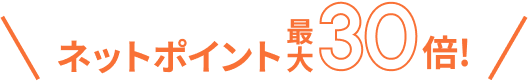
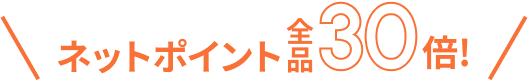
6月分LP・5/29時点校了データ

Changed region(s): [[0.5455, 0.2195, 0.6061, 0.9024]]

diff --git a/index.html b/index.html
@@ -168,7 +168,7 @@ if(/Android/.test(window.navigator.userAgent)){
                         <section id="campaign" class="l-campaign">
                             <h2><img src="./img/seasonal/campaign_ttl.png" alt="キャンペーン詳細"></h2>
                             <ul class="campaign__attention text-xs-reg">
-                                <li>※エルメス商品は対象外</li>
+                                <li>※一部除外品あり</li>
                                 <li>※対象期間：<span class="text-bold">6月8日（月）0:00〜6月11日（木）23:59</span></li>
                                 <li>※キャンペーンにおけるネットポイント付与は<span class="text-color text-xs-bold">7月末</span>予定</li>
                             </ul>
@@ -308,9 +308,9 @@ if(/Android/.test(window.navigator.userAgent)){
                                     </ul>
                                     <p class="point-brand__attention text-xs-reg">※一部商品のみ対象</p>
                                     <ul class="point-brand__list">
-                                        <li><a href="https://web.hh-online.jp/hankyu-beauty/shop/index.html?shoptype=1&cid=bbs_aars"><img src="./img/260608/point20_brand-03.png" alt="AHRES"></a></li>
+                                        <li><a href="https://web.hh-online.jp/hankyu-beauty/goods/list.html?shoptype=1&cid=bsp_ahres_point20"><img src="./img/260608/point20_brand-03.png" alt="AHRES"></a></li>
                                         <li><a href="https://web.hh-online.jp/hankyu-beauty/goods/list.html?shoptype=1&cid=bsp_est_point20"><img src="./img/260608/point20_brand-04.png" alt="est"></a></li>
-                                        <li><a href="https://web.hh-online.jp/hankyu-beauty/shop/index.html?shoptype=1&cid=bbs_rept"><img src="./img/260608/point20_brand-05.png" alt="episteme"></a></li>
+                                        <li><a href="https://web.hh-online.jp/hankyu-beauty/goods/list.html?shoptype=1&cid=bsp_episteme_point20"><img src="./img/260608/point20_brand-05.png" alt="episteme"></a></li>
                                         <li><a href="https://web.hh-online.jp/hankyu-beauty/goods/list.html?shoptype=1&cid=bsp_electron_point20"><img src="./img/260608/point20_brand-06.png" alt="ELECTION"></a></li>
                                         <li><a href="https://web.hh-online.jp/hankyu-beauty/goods/list.html?shoptype=1&cid=bsp_kanebo_point20"><img src="./img/260608/point20_brand-07.png" alt="KANEBO"></a></li>
                                         <li><a href="https://web.hh-online.jp/hankyu-beauty/goods/list.html?shoptype=1&cid=bsp_cellcure_point20"><img src="./img/260608/point20_brand-08.png" alt="CELL CURE"></a></li>
@@ -323,6 +323,7 @@ if(/Android/.test(window.navigator.userAgent)){
                         <section id="point20-staff" class="l-point-staff l-point20-staff">
                             <div class="point-staff__outer">
                                 <h2 class="point-staff__title"><img src="./img/seasonal/point20_staff-ttl.png" alt="ポイント20倍 対象の商品をもっと詳しくご紹介！ STAFF RECOMMEND"></h2>
+                                <p class="point-staff__attention text-xs-reg">※ポイントアップのアイコンが付いた商品のみ、ポイントアップの対象です。</p>
                                 <div class="point-staff__item-block">
                                     <div class="swiper">
                                         <div class="swiper-wrapper">
@@ -483,7 +484,7 @@ if(/Android/.test(window.navigator.userAgent)){
                         <h2><img src="./img/seasonal/point30_ttl.png" alt="ネットポイント30倍！"></h2>
                         <ul class="point-nav__list">
                             <li><a href="#point30-skin"><img src="./img/260608/point30_nav-01.png" alt="おすすめスキンケア「ポーラ」"></a></li>
-                            <li><a href="#point30-fragrance"><img src="./img/260608/point30_nav-02.png" alt="フレグランス特集「メンズ」"></a></li>
+                            <li><a href="#point30-fragrance"><img src="./img/260608/point30_nav-02.png" alt="メンズにおすすめフレグランス"></a></li>
                             <li><a href="#point30-brand"><img src="./img/260608/point30_nav-03.png" alt="30倍対象ブランド"></a></li>
                         </ul>
                         <p class="point-nav__text text-xs-reg">※対象期間：<span class="text-xs-bold">6月8日（月）0:00〜6月11日（木）23:59</span></p>
@@ -499,7 +500,7 @@ if(/Android/.test(window.navigator.userAgent)){
                                 <img src="./img/260608/point30_skincare-brand.png" alt="今月は・・・POLA">
                             </div>
                             <div class="point30-skin__outer">
-                                <p class="point30-skin__main-img"><img src="./img/260608/point30_skincare-img-01.png" alt="POLA"></p>
+                                <!-- <p class="point30-skin__main-img"><img src="./img/260608/point30_skincare-img-01.png" alt="POLA"></p> -->
                                 <div class="point30-skin__contents-block">
                                     <p class="point30-skin__contents-img"><img src="./img/260608/point30_skincare-img-02.png" alt="POLA"></p>
                                     <h3 class="point30-skin__contents-title text-m-bold">ハリ肌研究40年。<br>ポーラ最高峰ブランドB.Aに新洗顔、登場。</h3>
@@ -622,7 +623,7 @@ if(/Android/.test(window.navigator.userAgent)){
                                             </div>
                                             <ul class="point30-skin__notice text-xs-reg">
                                                 <li>（*1）顔全体に使用すること</li>
-                                                <li>（*2）うるおいによるツヤ</li>
+                                                <li>（*2）うるおいによるつや</li>
                                                 <li>（*3）保湿成分</li>
                                                 <li>（*4）角層</li>
                                             </ul>
@@ -822,7 +823,7 @@ if(/Android/.test(window.navigator.userAgent)){
                                 
                                 <div class="point30-skin__list">
                                     <p class="text-s-bold">ネットポイント30倍の</p>
-                                    <p class="point30-skin__list-btn btn btn-black"><a href="xxx"><span class="text-m-bold">「ポーラ」対象商品一覧はこちら</span></a></p>
+                                    <p class="point30-skin__list-btn btn btn-black"><a href="https://web.hh-online.jp/hankyu-beauty/goods/list.html?shoptype=1&cid=bsp_ppla_point30"><span class="text-m-bold">「ポーラ」対象商品一覧はこちら</span></a></p>
                                 </div>
                             </div>
                         </section>
@@ -960,7 +961,7 @@ if(/Android/.test(window.navigator.userAgent)){
                                 </div> -->
                                 <div class="point30-fragrance__list">
                                     <p class="text-s-bold">ネットポイント30倍の</p>
-                                    <p class="point30-fragrance__list-btn btn btn-black"><a href="xxx"><span class="text-m-bold">「メンズにおすすめフレグランス」<br>対象商品一覧はこちら</span></a></p>
+                                    <p class="point30-fragrance__list-btn btn btn-black"><a href="https://web.hh-online.jp/hankyu-beauty/goods/list.html?shoptype=1&cid=bsp_mens_point30"><span class="text-m-bold">「メンズにおすすめフレグランス」<br>対象商品一覧はこちら</span></a></p>
                                 </div>
                             </div>
                         </section>
@@ -976,11 +977,12 @@ if(/Android/.test(window.navigator.userAgent)){
                                     <li><a href="https://web.hh-online.jp/hankyu-beauty/shop/index.html?shoptype=1&cid=bbs_ebob"><img src="./img/260608/point30_brand-03.png" alt="BOBBI BROWN"></a></li>
                                     <li><a href="https://web.hh-online.jp/hankyu-beauty/shop/index.html?shoptype=1&cid=bbs_emac"><img src="./img/260608/point30_brand-04.png" alt="M･A･C"></a></li>
                                     <li><a href="https://web.hh-online.jp/hankyu-beauty/shop/index.html?shoptype=1&cid=bbs_ejml"><img src="./img/260608/point30_brand-05.png" alt="JO MALONE LONDON"></a></li>
+                                    <li><a href="https://web.hh-online.jp/hankyu-beauty/shop/index.html?shoptype=1&cid=bbs_smrs"><img src="./img/260608/point30_brand-07.png" alt="MIROS"></a></li>
                                 </ul>
                                 <p class="point-brand__attention text-xs-reg">※一部商品のみ対象</p>
                                 <ul class="point-brand__list">
                                     <li><a href="https://web.hh-online.jp/hankyu-beauty/goods/list.html?shoptype=1&cid=bsp_mmim_point30"><img src="./img/260608/point30_brand-06.png" alt="MiMC"></a></li>
-                                    <li><a href="xxx"><img src="./img/260608/point30_brand-07.png" alt="MIROS"></a></li>
+                                    <li><a href="https://web.hh-online.jp/hankyu-beauty/goods/list.html?shoptype=1&cid=bsp_ppla_point30"><img src="./img/260608/point30_brand-08.png" alt="POLA"></a></li>
                                 </ul>
                             </div>
                         </div>
@@ -989,6 +991,7 @@ if(/Android/.test(window.navigator.userAgent)){
                     <section id="point30-staff" class="l-point-staff l-point30-staff">
                         <div class="point-staff__outer">
                             <h2 class="point-staff__title"><img src="./img/seasonal/point30_staff-ttl.png" alt="ポイント30倍 対象の商品をもっと詳しくご紹介！ STAFF RECOMMEND"></h2>
+                            <p class="point-staff__attention text-xs-reg">※ポイントアップのアイコンが付いた商品のみ、ポイントアップの対象です。</p>
                             <div class="point-staff__item-block">
                                 <div class="swiper">
                                     <div class="swiper-wrapper">
@@ -1266,7 +1269,7 @@ if(/Android/.test(window.navigator.userAgent)){
                                 <div class="store__inner">
                                     <p class="store__accent text-s-bold"><span class="store__accent-line">カウンターに並ばなくてもコスメが買える！</span></p>
                                     <p class="store__text text-m-bold"><span class="text-color">店舗受取サービス</span>をご利用いただくと<br><span class="text-color">コスメサンプルセット</span>をプレゼント！</p>
-                                    <p class="store__date text-s-reg">※対象期間：<span class="text-xs-bold">6月8日（月）0:00〜6月11日（木）23:59</span></p>
+                                    <p class="store__date text-s-reg">※対象期間：<span class="text-xs-bold">6月8日（月）0:00〜6月11日（木）23:59</span><br>※期間中、おひとり様1回限りとなります。</p>
                                 </div>
                                 <p class="store__icon"><img src="./img/seasonal/store_icon.png" alt=""></p>
                                 <p class="store__detail text-s-reg">例えば阪急うめだ本店と西宮阪急、神戸阪急<br>なら<span class="text-s-bold">午後1時</span>までのご注文で<span class="text-s-bold">当日午後5時</span>から<br>受け取り可能</p>
@@ -1296,29 +1299,29 @@ if(/Android/.test(window.navigator.userAgent)){
                     <section id="new-brand" class="l-new-brand">
                         <h2 class="new-brand__title text-ll-bold en">NEW BRAND</h2>
                         <div class="new-brand__wrap">
-                            <a href="xxx" class="new-brand__block">
-                                <p class="new-brand__point"><img src="./img/seasonal/newbrand_point.png" alt=""></p>
+                            <a href="https://web.hh-online.jp/hankyu-beauty/shop/index.html?shoptype=1&cid=bbs_smrs" class="new-brand__block">
+                                <p class="new-brand__point"><img src="./img/seasonal/newbrand_point.png" alt="ネットポイント全品30倍！"></p>
                                 <p class="new-brand__brand"><img src="./img/260608/newbrand_logo-01.png" alt="MIROS"></p>
                                 <p class="new-brand__img"><img src="./img/260608/newbrand_img-01.png" alt="MIROS"></p>
                                 <h3 class="new-brand__brand-name text-s-bold">ミロス</h3>
-                                <p class="new-brand__text text-s-reg">日本の美意識と先端バイオ技術を凝縮したハイエンド・ウェルネスブランドMIROS〈ミロス〉。肌が本来持つ力を見つめ、みずみずしいツヤと透明感にあふれる肌印象へ。</p>
+                                <p class="new-brand__text text-s-reg">日本の美意識と先端バイオ技術を凝縮したハイエンド・ウェルネスブランドMIROS〈ミロス〉。肌が本来持つ力を見つめ、みずみずしいつやと透明感にあふれる肌印象へ。</p>
                             </a>
-                            <a href="xxx" class="new-brand__block">
+                            <a href="https://web.hh-online.jp/hankyu-beauty/shop/index.html?shoptype=1&cid=bbs_dorm" class="new-brand__block">
                                 <p class="new-brand__brand"><img src="./img/260608/newbrand_logo-02.png" alt="ORMAIE"></p>
                                 <p class="new-brand__img"><img src="./img/260608/newbrand_img-02.png" alt="ORMAIE"></p>
                                 <h3 class="new-brand__brand-name text-s-bold">オルメ</h3>
                                 <p class="new-brand__text text-s-reg">植物原料のみを用いたフレグランスORMAIE。印象的なボトルキャップは、再生可能な森林からのブナ材を用い、すべて手作業で磨かれています。<br>サスティナブルなガラスボトル、パッケージは再生紙を使用したイタリア製の紙を使用するなど自然への愛と敬意が、〈ORMAIE〉のクリエーションの中心となっています。</p>
                             </a>
-                            <a href="xxx" class="new-brand__block">
+                            <a href="https://web.hh-online.jp/hankyu-beauty/shop/index.html?shoptype=1&cid=bbs_pric&stm=4" class="new-brand__block">
                                 <p class="new-brand__brand"><img src="./img/260608/newbrand_logo-03.png" alt="Reinca"></p>
                                 <p class="new-brand__img"><img src="./img/260608/newbrand_img-03.png" alt="Reinca"></p>
                                 <h3 class="new-brand__brand-name text-s-bold">レインカ</h3>
                                 <p class="new-brand__text text-s-reg">
-                                    肌にもリカバリービューティ<span class="text-xxs-reg">（*1）</span>という発想。<br>肌の生まれ変わりに着目し、<br>エイジングケア<span class="text-xxs-reg">（*1）</span>を追求したReinca（レインカ）が導くリカバリービューティ<span class="text-xxs-reg">（*2）</span>。
+                                    エイジングケア<span class="text-xxs-reg">（*1）</span>を追求したReinca（レインカ）が導くうるおいとハリ感に満ちた透明感<span class="text-xxs-reg">（*2）</span>溢れる肌。角質層のコンディションに着目し、肌をすこやかに保ちます。
                                 </p>
                                 <ul class="new-brand__attention text-xs-reg">
-                                    <li>（*1）年齢に応じたお手入れ</li>
-                                    <li>（*2）うるおいやハリを与えて、肌の美しい印象を回復するお手入れのこと</li>
+                                    <li>（*1）年齢に応じた肌にうるおいやハリを与えるお手入れ</li>
+                                    <li>（*2）うるおいによる</li>
                                 </ul>
                             </a>
                         </div>

diff --git a/css/style.css b/css/style.css
@@ -2297,6 +2297,13 @@ original
 	width: 100%;
 	margin: 0 auto;
 }
+.point-staff__attention{
+	width: 256px;
+	margin: 24px auto 0;
+	padding-left: 1em;
+	text-indent: -1em;
+	line-height: 1.5;
+}
 .point-staff__item-block{
 	margin-top: 24px;
 }
@@ -2388,6 +2395,10 @@ original
 @media screen and (max-width: 750px){
 	.l-point-staff{
 		padding: 11.2vw 0 10.667vw;
+	}
+	.point-staff__attention{
+		width: 68.267vw;
+		margin: 6.4vw auto 0;
 	}
 	.point-staff__item-block{
 		margin-top: 6.4vw;
@@ -2667,10 +2678,10 @@ original
 .point30-skin__contents-block{
 	position: relative;
 	width: 83.2%;
-	margin: 40px auto 0;
-	padding-top: 20px;
+	margin: 0 auto;
+	padding-top: 32px;
 }
-.point30-skin__contents-block::before{
+/* .point30-skin__contents-block::before{
 	content: "";
     background-image: url(../img/seasonal/point30-skin_line.png);
     background-size: cover;
@@ -2680,7 +2691,7 @@ original
     left: 0;
     width: 100%;
     height: 4.5px;
-}
+} */
 .point30-skin__contents-block-02{
 	margin-top: 24px;
 	padding-top: 0;
@@ -3182,12 +3193,12 @@ original
 	}
 	.point30-skin__contents-block{
 		width: 83.2%;
-		margin: 10.6667vw auto 0;
-		padding-top: 5.333vw;
+		margin: 0 auto;
+		padding-top: 8.5334vw;
 	}
-	.point30-skin__contents-block::before{
+	/* .point30-skin__contents-block::before{
 		height: 1.2vw;
-	}
+	} */
 	.point30-skin__contents-block-02{
 		margin-top: 6.4vw;
 		padding-top: 0;